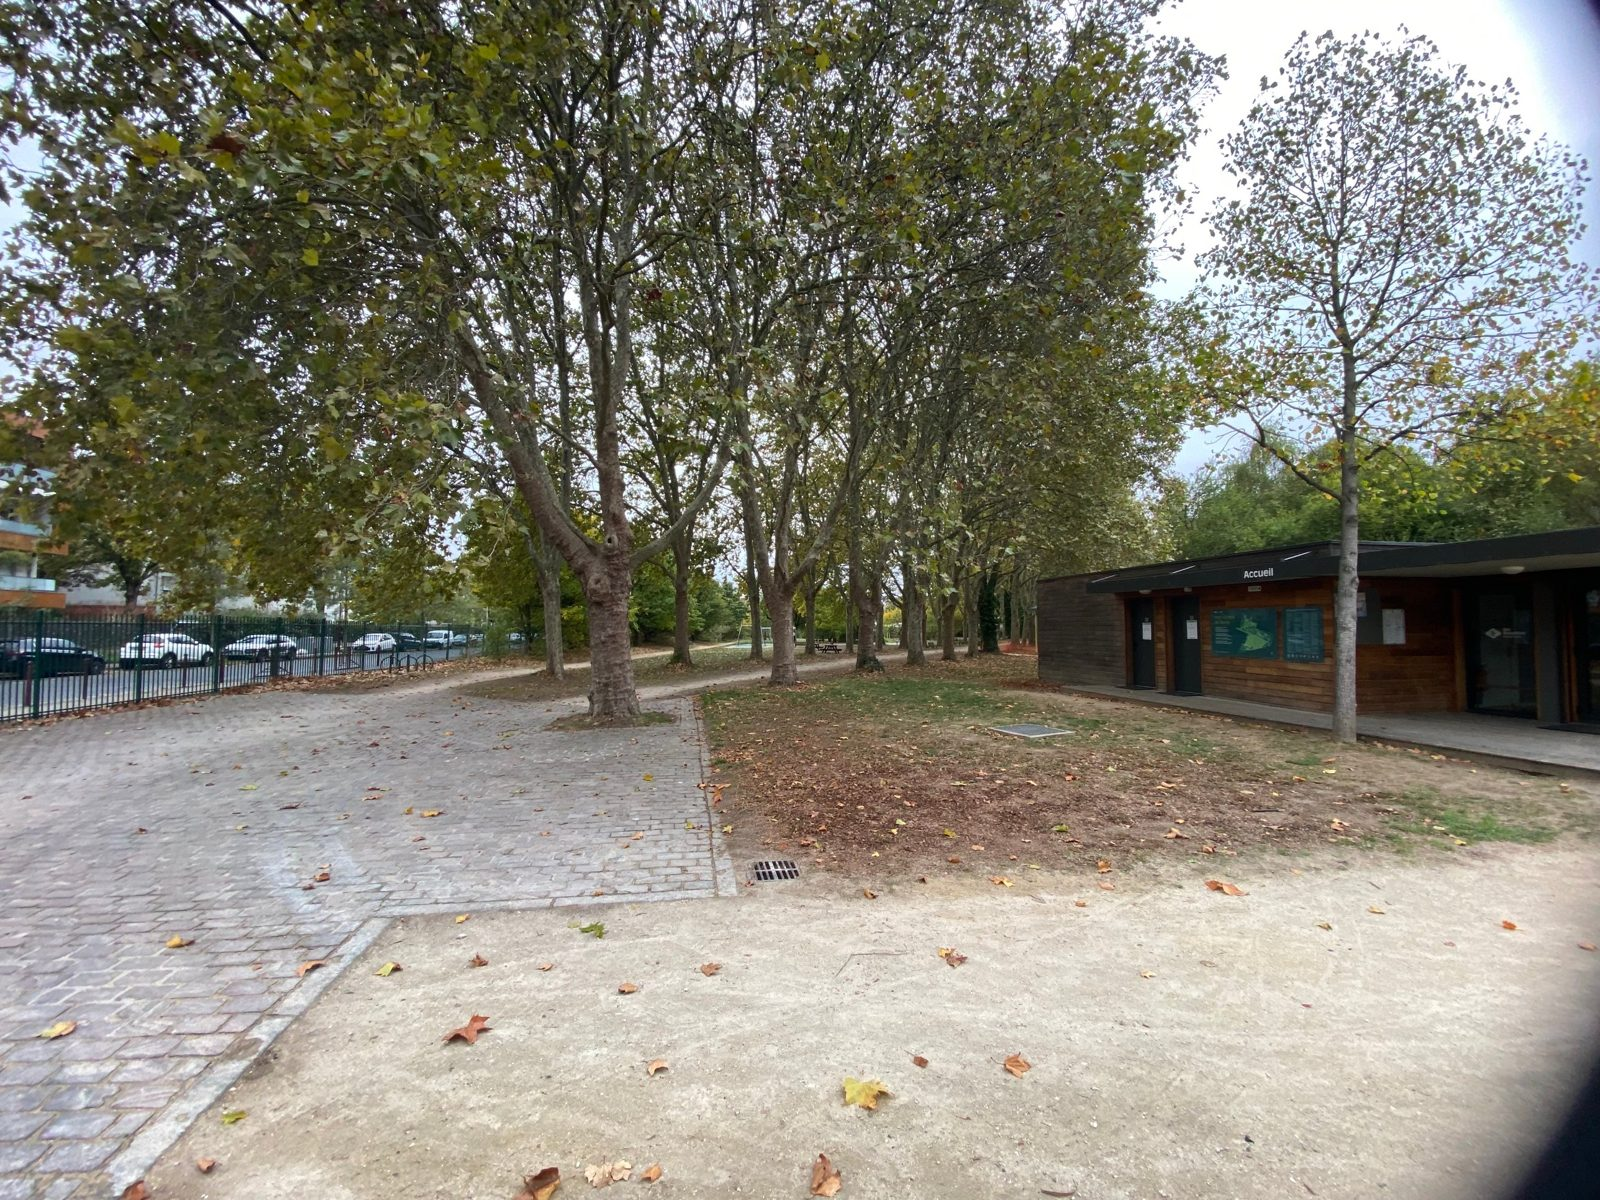
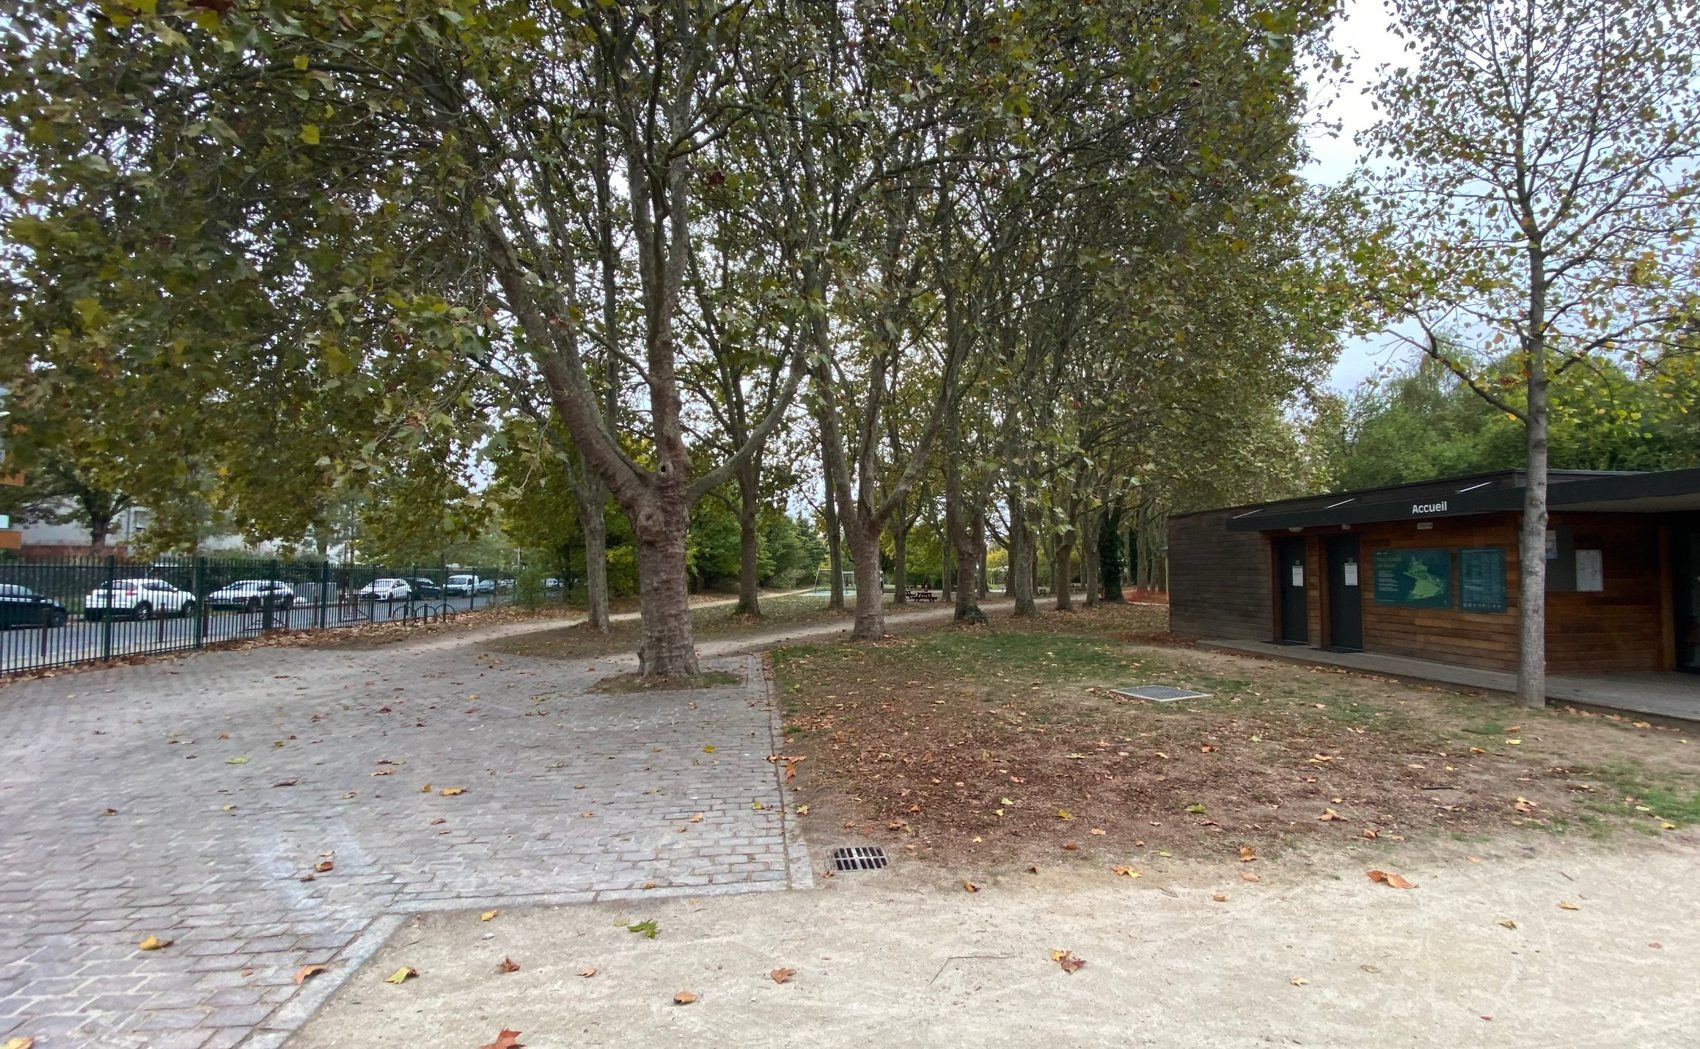
Bonnes infos : photo recadrée, bords sombres retirés
Claude-Session: https://claude.ai/code/session_016UPk9Dva8jUHz9n8WufgX8

diff --git a/infos.html b/infos.html
@@ -504,7 +504,7 @@ h1 em, .ed-head h1 em, .pubpage .ici h1 em, .bi-head h1 em, .ph-head h1 em { col
 @media (min-width: 900px) { .bar nav { gap: 6px 11px !important; } .bar nav a { font-size: 12.5px !important; letter-spacing: .03em !important; } }
 
 .bi-photo { grid-column: 1 / -1; position: relative; margin: 14px 0 10px; box-shadow: 10px 10px 0 var(--beige); }
-.bi-photo img { display: block; width: 100%; aspect-ratio: 21 / 9; object-fit: cover; object-position: 50% 55%; }
+.bi-photo img { display: block; width: 100%; aspect-ratio: 16 / 8; object-fit: cover; object-position: 50% 50%; }
 .bi-photo figcaption { position: absolute; left: 0; bottom: 0; background: var(--beige); color: #12141c; font-family: var(--display); font-weight: 700; text-transform: uppercase; letter-spacing: .1em; font-size: 14px; padding: 8px 14px; }
 @media (max-width: 620px) { .bi-photo { box-shadow: 6px 6px 0 var(--beige); } .bi-photo img { aspect-ratio: 4 / 3; } }
 .bi-util { margin: 26px 0 8px; background: #f3ead6; color: #12141c; border-left: 6px solid #b8975a; padding: clamp(20px, 3vw, 32px); }

diff --git a/sw.js b/sw.js
@@ -1,4 +1,4 @@
-const VERSION = "bondy-tv-v104";
+const VERSION = "bondy-tv-v105";
 const SHELL = ["/", "/manifest.webmanifest", "/icons/icon-192.png", "/icons/icon-512.png", "/icons/apple-touch-icon.png"];
 
 self.addEventListener("install", (e) => {
